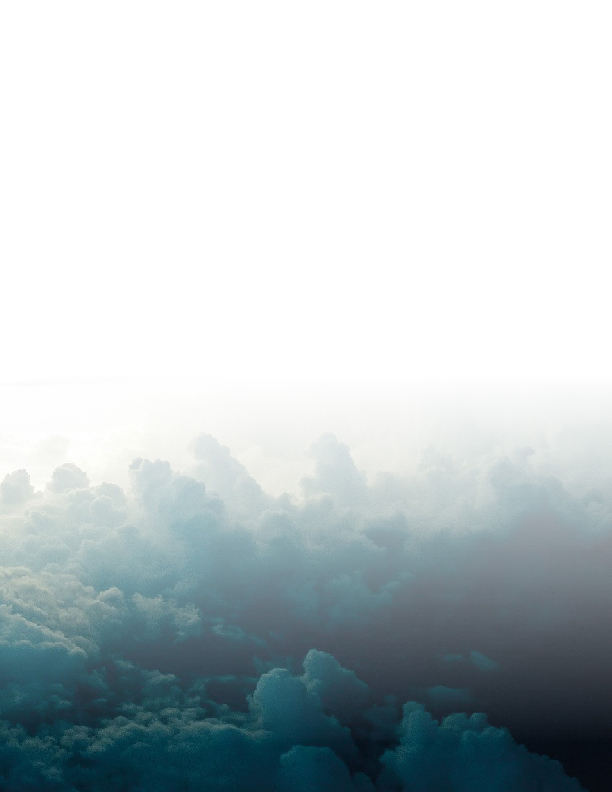
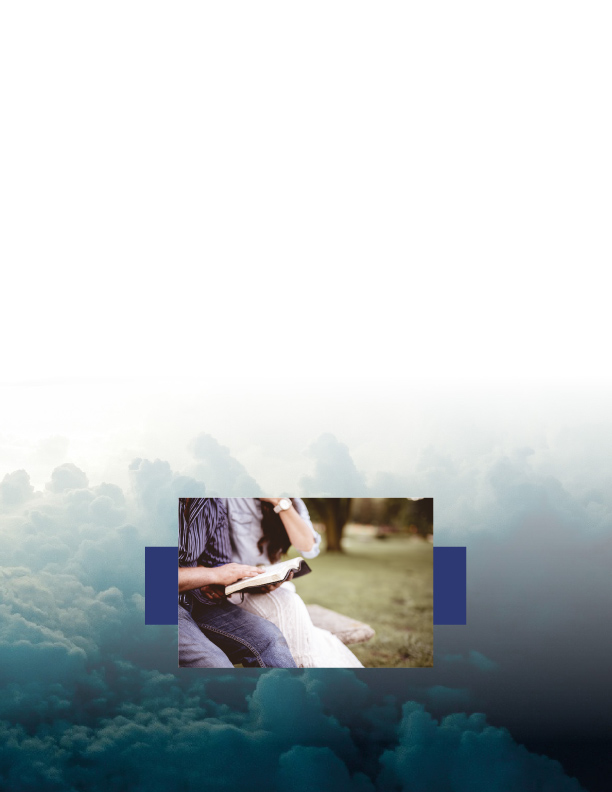
Styles for each page

Changed region(s): [[0.2173, 0.6061, 0.7761, 0.8485]]

diff --git a/assets/js/app.js b/assets/js/app.js
@@ -213,6 +213,8 @@
       idAttribute: 'id',
       className: 'none'
     });
+
+
     
     var RegionView = Backbone.View.extend({
       tagName: 'div',
@@ -291,6 +293,11 @@
           var $pageElement = $('#flipbook').turn('pageElement', this.model.pageNumber);
           this.$el.addClass('ui-region-' + attr.HTMLContent.className);
 
+          this.$el.css({
+            "position": "absolute",
+            "z-index": "1"
+          });
+
           this.$el.css(attr.HTMLContent.css);
 
           this.$el.html(attr.HTMLContent.text);
@@ -340,7 +347,11 @@
 
           this.$el.css(attr.articleAuthor.css);
 
-          this.$el.html(authorSVG(attr.articleAuthor.text,attr.articleAuthor.backgroundColor));
+          if(attr.articleAuthor.direction == "right") {
+            this.$el.html(authorRightSVG(attr.articleAuthor.text,attr.articleAuthor.backgroundColor));
+          } else if(attr.articleAuthor.direction == "left") {
+            this.$el.html(authorLeftSVG(attr.articleAuthor.text,attr.articleAuthor.backgroundColor));
+          }
 
           this.$el.data({view: this});
           $pageElement.append(this.$el);
@@ -358,6 +369,21 @@
           this.$el.css(attr.buttonsForAudioPrint.css);
 
           this.$el.html(audioPrintSVG(attr.buttonsForAudioPrint.audio.bgColor,attr.buttonsForAudioPrint.audio.border,attr.buttonsForAudioPrint.audio.link,attr.buttonsForAudioPrint.print.bgColor,attr.buttonsForAudioPrint.print.border,attr.buttonsForAudioPrint.print.link));
+
+          this.$el.data({view: this});
+          $pageElement.append(this.$el);
+        }
+        else if(attr.stylesForPage) {
+          var $pageElement = $('#flipbook').turn('pageElement', this.model.pageNumber);
+          this.$el.addClass('ui-region-' + "styles");
+
+          let elementForEL = "";
+
+          for(let i = 0; i < attr.stylesForPage.length; i++) {
+            elementForEL += attr.stylesForPage[i];
+          }
+
+          this.$el.html("<style>" + elementForEL + "</style>");
 
           this.$el.data({view: this});
           $pageElement.append(this.$el);
@@ -1082,19 +1108,23 @@
     })(window, jQuery, Backbone);
   
 function pageNumberRightSVG(text){
-  return "<svg version='1.2' baseProfile='tiny' id='pageNumberRight' xmlns='http://www.w3.org/2000/svg' xmlns:xlink='http://www.w3.org/1999/xlink' x='0px' y='0px' viewBox='0 0 1051.5 216' xml:space='preserve'><path fill='#9d221b' d='M1040.5,78H202.32C189.64,38.55,152.66,10,109,10c-54.12,0-98,43.88-98,98s43.88,98,98,98	c43.66,0,80.64-28.55,93.32-68h838.18V78z'/><text x='50' y='165' style='font-family:var(--bebas-neue);font-size:10em;fill:white'>" + text + "</text></svg>";
+  return "<svg version='1.2' baseProfile='tiny' id='pageNumberRight' xmlns='http://www.w3.org/2000/svg' xmlns:xlink='http://www.w3.org/1999/xlink' x='0px' y='0px' viewBox='0 0 1051.5 216' xml:space='preserve'><path fill='var(--color-red)' d='M1040.5,78H202.32C189.64,38.55,152.66,10,109,10c-54.12,0-98,43.88-98,98s43.88,98,98,98	c43.66,0,80.64-28.55,93.32-68h838.18V78z'/><text x='50' y='165' style='font-family:var(--bebas-neue);font-size:10em;fill:white'>" + text + "</text></svg>";
 }
 
 function pageNumberLeftSVG(text){
-  return "<svg version='1.2' baseProfile='tiny' id='pageNumberLeft' xmlns='http://www.w3.org/2000/svg' xmlns:xlink='http://www.w3.org/1999/xlink' x='0px' y='0px' viewBox='0 0 1051.5 216' xml:space='preserve'><path fill='#9d221b' d='M11,78h838.18c12.67-39.45,49.66-68,93.32-68c54.12,0,98,43.88,98,98s-43.88,98-98,98 c-43.66,0-80.64-28.55-93.32-68H11V78z'/><text x='880' y='165' style='font-family:var(--bebas-neue);font-size:10em;fill:white'>" + text + "</text></svg>";
+  return "<svg version='1.2' baseProfile='tiny' id='pageNumberLeft' xmlns='http://www.w3.org/2000/svg' xmlns:xlink='http://www.w3.org/1999/xlink' x='0px' y='0px' viewBox='0 0 1051.5 216' xml:space='preserve'><path fill='var(--color-red)' d='M11,78h838.18c12.67-39.45,49.66-68,93.32-68c54.12,0,98,43.88,98,98s-43.88,98-98,98 c-43.66,0-80.64-28.55-93.32-68H11V78z'/><text x='880' y='165' style='font-family:var(--bebas-neue);font-size:10em;fill:white'>" + text + "</text></svg>";
 }
 
 function buttonModalSVG(text,x,y,size,bg,border,textColor){
   return "<svg width='100%' version='1.2' baseProfile='tiny' id='buttonModal' xmlns='http://www.w3.org/2000/svg' xmlns:xlink='http://www.w3.org/1999/xlink' x='0px' y='0px' viewBox='0 0 459 150' xml:space='preserve'><path fill='" + bg + "' d='M424.01,150H34.99C15.67,150,0,134.33,0,115.01V34.99C0,15.67,15.67,0,34.99,0h389.01	C443.33,0,459,15.67,459,34.99v80.01C459,134.33,443.33,150,424.01,150z'/><path fill='" + border + "' d='M424.01,10C437.79,10,449,21.21,449,34.99v80.01c0,13.78-11.21,24.99-24.99,24.99H34.99	C21.21,140,10,128.79,10,115.01V34.99C10,21.21,21.21,10,34.99,10H424.01 M424.01,0H34.99C15.67,0,0,15.67,0,34.99v80.01 C0,134.33,15.67,150,34.99,150h389.01c19.33,0,34.99-15.67,34.99-34.99V34.99C459,15.67,443.33,0,424.01,0L424.01,0z'/><text x='" + x + "' y='" + y + "' style='font-family:var(--bebas-neue);font-size:" + size + ";fill:" + textColor + "'>" + text + "</text></svg>";
 }
 
-function authorSVG(text,bg){
+function authorRightSVG(text,bg){
   return "<svg version='1.1' id='author' xmlns='http://www.w3.org/2000/svg' xmlns:xlink='http://www.w3.org/1999/xlink' x='0px' y='0px' viewBox='0 0 2470.5 216' style='enable-background:new 0 0 2470.5 216;' xml:space='preserve'><path fill='" + bg + "' d='M2457.7,202.9H105.9C53.5,202.9,11,160.4,11,108v0c0-52.4,42.5-94.9,94.9-94.9h2351.9V202.9z'/><text x='100' y='140' style='font-size:4.3em;fill:white;font-family: sans-serif;'>" + text + "</text></svg>";
+}
+
+function authorLeftSVG(text,bg){
+  return "<svg version='1.1' id='author' xmlns='http://www.w3.org/2000/svg' xmlns:xlink='http://www.w3.org/1999/xlink' x='0px' y='0px' viewBox='0 0 2470.5 216' style='enable-background:new 0 0 2470.5 216;' xml:space='preserve'><path fill='" + bg + "' d='M11,202.9V13.1h2351.9c52.4,0,94.9,42.5,94.9,94.9l0,0c0,52.4-42.5,94.9-94.9,94.9H11L11,202.9z'/><text x='450' y='140' style='font-size:4.3em;fill:white;font-family: sans-serif;'>" + text + "</text></svg>";
 }
 
 function audioPrintSVG(bgColorAudio,borderColorAudio,linkAudio,bgColorPrint,borderColorPrint,linkPrint){

diff --git a/svg.html b/svg.html
@@ -1,1 +1,6 @@
-<svg version='1.1' id='Layer_1' xmlns='http://www.w3.org/2000/svg' xmlns:xlink='http://www.w3.org/1999/xlink' x='0px' y='0px' viewBox='0 0 327.6 150' style='enable-background:new 0 0 327.6 150;' xml:space='preserve'><circle style='fill:#00FF00;' cx='75' cy='75' r='70'/><path style='fill:#FF0000;' d='M75,10c35.8,0,65,29.2,65,65s-29.2,65-65,65s-65-29.2-65-65S39.2,10,75,10 M75,0C33.6,0,0,33.6,0,75	s33.6,75,75,75s75-33.6,75-75S116.4,0,75,0L75,0z'/><circle style='fill:#00FF00;' cx='252.6' cy='75' r='70'/><path style='fill:#FF0000;' d='M252.6,10c35.8,0,65,29.2,65,65s-29.2,65-65,65s-65-29.2-65-65S216.7,10,252.6,10 M252.6,0	c-41.4,0-75,33.6-75,75s33.6,75,75,75s75-33.6,75-75S294,0,252.6,0L252.6,0z'/></svg>
+<svg version="1.1" id="Layer_1" xmlns="http://www.w3.org/2000/svg" xmlns:xlink="http://www.w3.org/1999/xlink" x="0px" y="0px" viewBox="0 0 2470.5 216" style="enable-background:new 0 0 2470.5 216;" xml:space="preserve">
+<style type="text/css">
+	.st0{fill:#2D3875;}
+</style>
+<path class="st0" d="M11,202.9V13.1h2351.9c52.4,0,94.9,42.5,94.9,94.9l0,0c0,52.4-42.5,94.9-94.9,94.9H11L11,202.9z"/>
+</svg>

diff --git a/assets/css/default/animate.css b/assets/css/default/animate.css
@@ -1,3 +1,7 @@
+/* Animaciones CSS */
+
+/* Pulse */
+
 @-webkit-keyframes pulse {
 	0% {
 		box-shadow: 0 0 0 0 rgba(0, 102, 255, .7);
@@ -159,6 +163,7 @@
     opacity: 1;
   }
 }
+
 @keyframes slide-in-right {
   0% {
     -webkit-transform: translateX(1000px);
@@ -168,6 +173,34 @@
   100% {
     -webkit-transform: translateX(0);
     transform: translateX(0);
+    opacity: 1;
+  }
+}
+
+/* Slide in top */
+
+@-webkit-keyframes slide-in-top {
+  0% {
+    -webkit-transform: translateY(-1000px);
+    transform: translateY(-1000px);
+    opacity: 0;
+  }
+  100% {
+    -webkit-transform: translateY(0);
+    transform: translateY(0);
+    opacity: 1;
+  }
+}
+
+@keyframes slide-in-top {
+  0% {
+    -webkit-transform: translateY(-1000px);
+    transform: translateY(-1000px);
+    opacity: 0;
+  }
+  100% {
+    -webkit-transform: translateY(0);
+    transform: translateY(0);
     opacity: 1;
   }
 }

diff --git a/assets/css/main-custom.css b/assets/css/main-custom.css
@@ -1,6 +1,8 @@
 :root{
   /* Colors */
-  --color-subtitle: #9d221b;
+  --color-blue:#2d3875;
+  --color-blue-transparent:#4d99b9c4;
+  --color-red: #9d221b;
   --color-text: #535152;
   --color-text-quote:#a95352;
   /* Fonts */
@@ -10,7 +12,7 @@
 
 .subtitle {
   font-family:var(--bebas-neue);
-  color:var(--color-subtitle);
+  color:var(--color-red);
   padding:0;
   margin:0;
 }
@@ -35,14 +37,5 @@ q {
 }
 
 .bible-quote {
-  color:var(--color-text-quote);
   font-style: italic;
-}
-
-.audio,
-.print{
-  padding:25px;
-  border-radius:55%;
-  text-decoration:none;
-  cursor:pointer;
 }

diff --git a/index.html b/index.html
@@ -27,6 +27,7 @@
     <link type="text/css" rel="stylesheet" href="assets/css/default/scrollbar.css">
     <link type="text/css" rel="stylesheet" href="assets/css/default/tooltip.css">
     <link type="text/css" rel="stylesheet" href="assets/css/default/shine.css">
+    <link type="text/css" rel="stylesheet" href="assets/css/default/regions.css">
 
     <!-- External CSS dependencies -->
     <link rel="stylesheet" href="https://use.fontawesome.com/releases/v5.15.4/css/all.css" integrity="sha384-DyZ88mC6Up2uqS4h/KRgHuoeGwBcD4Ng9SiP4dIRy0EXTlnuz47vAwmeGwVChigm" crossorigin="anonymous">

diff --git a/assets/css/default/regions.css b/assets/css/default/regions.css
@@ -1,0 +1,18 @@
+.audio,
+.print{
+  padding:25px;
+  border-radius:55%;
+  text-decoration:none;
+  cursor:pointer;
+}
+
+foreignObject {
+  width: 100%;
+  height: 100%;
+  overflow:visible;
+}
+
+.div-for-SVG {
+  font-size:3.4em;
+  width: 93%;
+}
